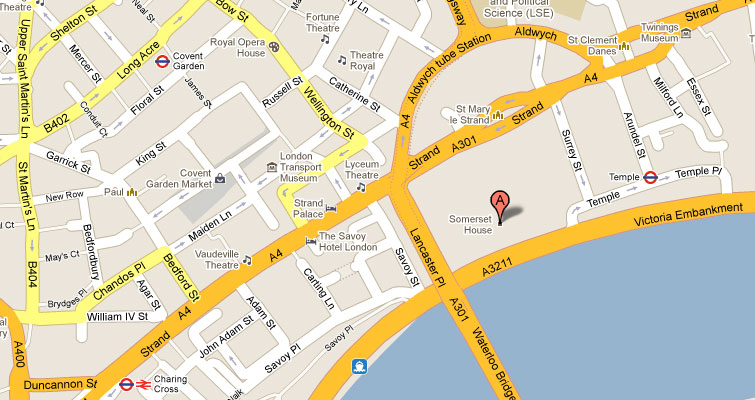
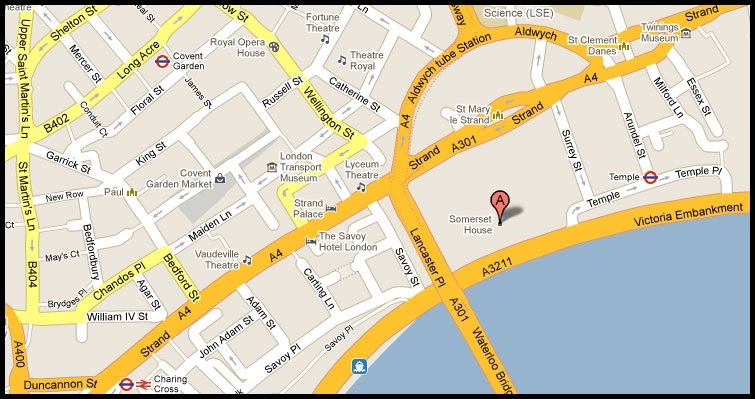
updated description functionality

diff --git a/src/main.js b/src/main.js
@@ -12,6 +12,7 @@ var filled=false;
 var auto=false;
 var pfound=false;
 var high=false;
+var desc="";
 
 var nameInputSkin = new Skin({ borders: { left:2, right:2, top:2, bottom:2 }, stroke: 'gray', fill: 'white'});
 var fieldStyle = new Style({ color: 'black', font: 'bold 24px', horizontal: 'left', vertical: 'middle', left: 5, right: 5, top: 5, bottom: 5, });
@@ -83,7 +84,7 @@ var setPathCon = Container.template(function($) { return {
 		new bButton(),
 		new Label({top: 20, string: "Set Path", style: labelStyle}),
 		new Line({left:0, right:0, top:80, bottom:450, skin: blackS}),
-		new Picture({top: 30,left: 20, right: 20, width: pictureWidth, height: pictureHeight, url: "map.jpg", name: "mainMap"}),
+		new Picture({top: 20,left: 20, right: 20, width: pictureWidth, height: pictureHeight, url: "map2.png", name: "mainMap"}),
 		new Label({top: 277, left: 20, string: "From:", style: fieldStyle}),
 		new Label({top: 326, left: 20, string: "To:", style: fieldStyle}),
 		fromField, toField,
@@ -101,7 +102,7 @@ var setPathCon = Container.template(function($) { return {
 
 var camH = 200;
 var camW = 400;
-var centerL = 85;
+var centerL = 70;
 var centerB = 100;
 var flyDroneCon = Container.template(function($) { return {
 	left: 0, right: 0, top: 0, bottom: 0, skin: redS, active: true, name: "flyDroneContainer",
@@ -166,6 +167,8 @@ var listPeopleCon = Container.template(function($) { return {
 	})
 }});
 
+
+
 var listPeopleConFilled = Container.template(function($) { return {
 	left: 0, right: 0, top: 0, bottom: 0, skin: blueS, active: true, name: "flyDroneContainer",
 	contents: [
@@ -184,7 +187,7 @@ var listPeopleConFilled = Container.template(function($) { return {
 								application.remove(listFilledCon);
 								application.add(listCon);
 								saved = false;
-	        				}})
+	        				}}),
 	],
 	behavior: Object.create(Container.prototype, {
 		onTouchEnded: { value: function(content){
@@ -194,7 +197,6 @@ var listPeopleConFilled = Container.template(function($) { return {
 	})
 }});
 
-
 var addPeopleCon = Container.template(function($) { return {
 	left: 0, right: 0, top: 0, bottom: 0, skin: blueS, active: true, name: "flyDroneContainer",
 	contents: [
@@ -202,6 +204,8 @@ var addPeopleCon = Container.template(function($) { return {
 		new Label({top: 20, string: "Add Person", style: labelStyle}),
 		new Line({left:0, right:0, top:80, skin: blackS}),
 		descriptionField,
+		,
+		new sButton({title: "Save", left: 40, top: 420, width: 250, skin: greenS}),
 		new Line({top:130, height:230, width: 250, skin: whiteBorderSkin, name: "photo",
 	      contents:[
 	        new bigIconButton({title: "person photo", top: 0, left:0, right: 0, bottom:0, name: "missingPhoto",
@@ -213,8 +217,7 @@ var addPeopleCon = Container.template(function($) { return {
 	        					content.picture.load("kid.jpg");
 	        				}})
 	      ]
-	    }),
-		new sButton({title: "Save", left: 40, top: 420, width: 250, skin: greenS}),
+	    })
 	],
 	behavior: Object.create(Container.prototype, {
 		onTouchEnded: { value: function(content) {
@@ -224,6 +227,7 @@ var addPeopleCon = Container.template(function($) { return {
 	})
 }});
 
+//				addPeopleCon.uploadpic.content.picture.load("blank.jpg");
 
 var aButton = BUTTONS.Button.template(function($) { return {
 	left: 0, right: 0, height: 170,
@@ -235,6 +239,7 @@ var aButton = BUTTONS.Button.template(function($) { return {
 			if($.action == "setPath"){
 				application.remove(main);
 				application.add(pathCon);
+				addPeopleCon.photo;
 				mode = "path";
 			}
 			else if($.action == "flyDrone") {
@@ -253,6 +258,10 @@ var aButton = BUTTONS.Button.template(function($) { return {
 					application.add(listCon);
 				}
 				mode = "find";
+				descBox.string = desc;
+				trace("desc is " + desc);
+				//listFilledCon.remove(descBox);
+				//listFilledCon.add(descBox);
 			}
 			else{
 				trace($.title + " button pressed\n");
@@ -285,7 +294,7 @@ var bButton = BUTTONS.Button.template(function($){ return{
 			if (mode == "add") {
 				application.remove(addCon);
 				if (!saved) {
-					filled = false;
+					//filled = false;
 					application.add(listCon);
 				} else {
 					application.add(listFilledCon);
@@ -329,7 +338,7 @@ var sButton = BUTTONS.Button.template(function($){ return{
 		onTap: { value: function(content){
 			var pressed = $.title;
 			if(pressed == "start"){
-				pathCon.mainMap.url = "maparrows.jpg";
+				pathCon.mainMap.url = "map2path.png";
 				content.invoke(new Message(deviceURL + "startPath", Message.TEXT));
 				auto = true;
 			} else if(pressed == "stop"){
@@ -346,6 +355,7 @@ var sButton = BUTTONS.Button.template(function($){ return{
 				} else {
 					application.add(listCon);
 				}
+				descBox.string = desc;
 				content.invoke(new Message(deviceURL + "search"), Message.JSON);
 			}
 		}}
@@ -488,6 +498,10 @@ var myField = Container.template(function($) { return {
 				 		onEdited: { value: function(label){
 				 			var data = this.data;
 							data.name = label.string;
+							if ($.hint == "Description" || true) {
+								desc = label.string;
+								trace("desc is " + desc);
+							}
 							label.container.hint.visible = ( data.name.length == 0 );
 				 		}}
 				 	}),
@@ -577,7 +591,7 @@ var ApplicationBehavior = Behavior.template({
 application.behavior = new ApplicationBehavior();
 
 var currL = 20;
-var currT = 245;
+var currT = 240;
 
 var fromField = new myField({ name: "", top: 270, width: 250, left: 100, right: 10, height: 44, hint: "Address" });
 var toField = new myField({ name: "", top: 320, width: 250, left: 100, right: 10, height: 44, hint: "Address" });
@@ -594,7 +608,8 @@ var personFoundFly = new Label({top: ptop, string: pstr, style: psty});
 var personFoundSet = new Label({top: ptop, string: pstr, style: psty});
 var personFoundList = new Label({top: ptop, string: pstr, style: psty});
 var personFoundAdd = new Label({top: ptop, string: pstr, style: psty});
-var personFoundListFilled = new Label({top: ptop, string: pstr, style: psty});
+var personFoundListFilled = new Label({top: ptop, string: " ", style: psty});
+var descBox = new Label({top: 140, left: 110, string: "", style: smLabelStyle});
 
 var main = new MainCon()
 var pathCon = new setPathCon();
@@ -610,6 +625,8 @@ main.add(personFoundMain);
 flyCon.add(personFoundFly);
 listCon.add(personFoundList);
 listFilledCon.add(personFoundListFilled);
+listFilledCon.add(descBox);
+
 pathCon.add(personFoundSet);
 addCon.add(personFoundAdd);
 
